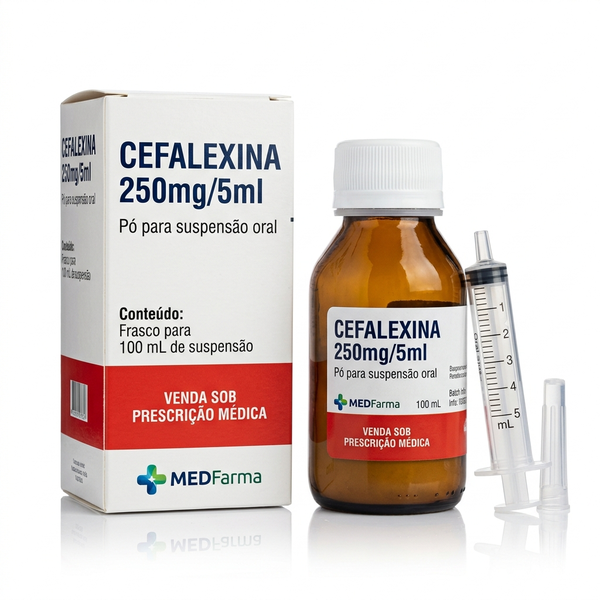
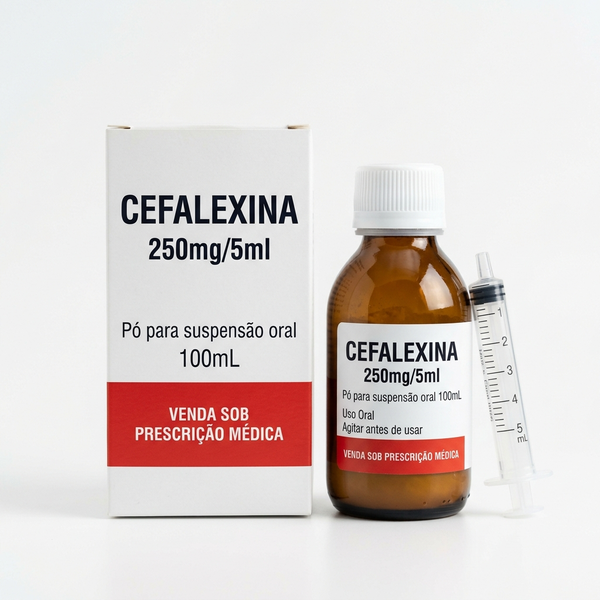
fix(loja): remove marca medfarma da imagem da cefalexina e define vendedor dos medicamentos como PetOrlandia

Changed region(s): [[0.0, 0.15, 0.96, 0.9], [0.45, 0.15, 0.48, 0.18]]

diff --git a/tests/test_cefalexina_suspensao_produto.py b/tests/test_cefalexina_suspensao_produto.py
@@ -1,10 +1,8 @@
-"""Testes para o produto Cefalexina 250mg/5ml Pó para Suspensão Oral."""
+"""Testes para o produto Cefalexina 250mg/5ml Pó para Suspensão Oral vendido pela PetOrlândia."""
 
 from extensions import db
 from models.bulario import ApresentacaoMedicamento, Medicamento
 from models.loja import Product, ProductVariant
-from models.racao import CasaDeRacao
-from models.usuarios import User
 from services.prescription_store import build_prescription_offers
 
 
@@ -15,24 +13,8 @@ class _FakePrescricao:
 
 def test_cefalexina_suspensao_match_produto_loja(app):
     with app.app_context():
-        user = User(
-            name="Lojista Cefa",
-            email="lojista.cefa@teste.com",
-            password_hash="test_hash",
-            role="adotante",
-        )
-        db.session.add(user)
-        db.session.commit()
-
-        casa = CasaDeRacao(
-            nome="AgroGraner Teste",
-            status="ativa",
-            owner_id=user.id,
-        )
-        db.session.add(casa)
-        db.session.commit()
-
         # Preço base de R$ 60,00 (sem taxas). Com 10% da plataforma: 60.00 / 0.90 = R$ 66,67
+        # Vendido diretamente pela PetOrlândia (casa_de_racao_id=None)
         produto = Product(
             name="Cefalexina 250mg/5ml Pó para Suspensão Oral 100ml",
             description="Cefalexina 250 mg/5 mL suspensão oral",
@@ -41,7 +23,7 @@ def test_cefalexina_suspensao_match_produto_loja(app):
             status="active",
             is_demo=False,
             category="medicamento",
-            casa_de_racao_id=casa.id,
+            casa_de_racao_id=None,
             image_url="https://petorlandia.s3.amazonaws.com/products/cefalexina_250mg_suspensao_100ml.png",
         )
         db.session.add(produto)
@@ -64,6 +46,7 @@ def test_cefalexina_suspensao_match_produto_loja(app):
         # Valida cálculo de preços
         assert float(produto.price) == 60.00
         assert float(produto.preco_publico) == 66.67
+        assert produto.casa_de_racao_id is None
 
         # Prescrição de Cefalexina 250mg/5ml
         prescricao = _FakePrescricao("Cefalexina 250mg/5ml — Suspensão oral")

diff --git a/tests/test_sulfadiazina_produto.py b/tests/test_sulfadiazina_produto.py
@@ -3,8 +3,6 @@
 from extensions import db
 from models.bulario import ApresentacaoMedicamento, DoseMedicamento, Medicamento
 from models.loja import Product, ProductVariant
-from models.racao import CasaDeRacao
-from models.usuarios import User
 from services.prescription_store import build_prescription_offers
 
 
@@ -15,25 +13,8 @@ class _FakePrescricao:
 
 def test_sulfadiazina_match_produto_loja(app):
     with app.app_context():
-        user = User(
-            name="Lojista Teste",
-            email="lojista.sulfadiazina@teste.com",
-            password_hash="test_hash",
-            role="adotante",
-        )
-        db.session.add(user)
-        db.session.commit()
-
-        # Casa de ração ativa
-        casa = CasaDeRacao(
-            nome="AgroGraner Teste",
-            status="ativa",
-            owner_id=user.id,
-        )
-        db.session.add(casa)
-        db.session.commit()
-
-        # Produto na loja com preco base de 29.00 (sem taxas da plataforma)
+        # Vendido diretamente pela PetOrlândia (casa_de_racao_id=None)
+        # Preço base de 29.00 (sem taxas da plataforma)
         # Com taxa da plataforma de 10%, preco publico = 29.00 / 0.90 = 32.22
         produto = Product(
             name="Sulfadiazina de Prata 10mg/g Creme 30g",
@@ -43,7 +24,7 @@ def test_sulfadiazina_match_produto_loja(app):
             status="active",
             is_demo=False,
             category="medicamento",
-            casa_de_racao_id=casa.id,
+            casa_de_racao_id=None,
             image_url="https://petorlandia.s3.amazonaws.com/products/sulfadiazina_de_prata_10mg_creme_30g.png",
         )
         db.session.add(produto)
@@ -66,6 +47,7 @@ def test_sulfadiazina_match_produto_loja(app):
         # Validar cálculo de preço público com taxa embutida
         assert float(produto.price) == 29.00
         assert float(produto.preco_publico) == 32.22
+        assert produto.casa_de_racao_id is None
 
         # Prescrição veterinária de Sulfadiazina de Prata 10mg/g
         prescricao = _FakePrescricao("Sulfadiazina de Prata 10mg/g — Creme dermatológico")

diff --git a/scripts/seed_produto_sulfadiazina.py b/scripts/seed_produto_sulfadiazina.py
@@ -1,4 +1,4 @@
-"""Cadastra/atualiza a Sulfadiazina de Prata 10mg/g Creme 30g no Bulario e na Loja (idempotente).
+"""Cadastra/atualiza a Sulfadiazina de Prata 10mg/g Creme 30g no Bulario e na Loja (idempotente).
 
 Uso:
     python scripts/seed_produto_sulfadiazina.py
@@ -57,7 +57,7 @@ def seed_sulfadiazina(
     preco: float = 29.00,
     estoque: int = 10,
     nome_produto: str = NOME_PRODUTO,
-    casa_de_racao_id: int | None = 34,
+    casa_de_racao_id: int | None = None,
 ):
     # 1. Garantir Medicamento no Bulario
     med = Medicamento.query.filter(
